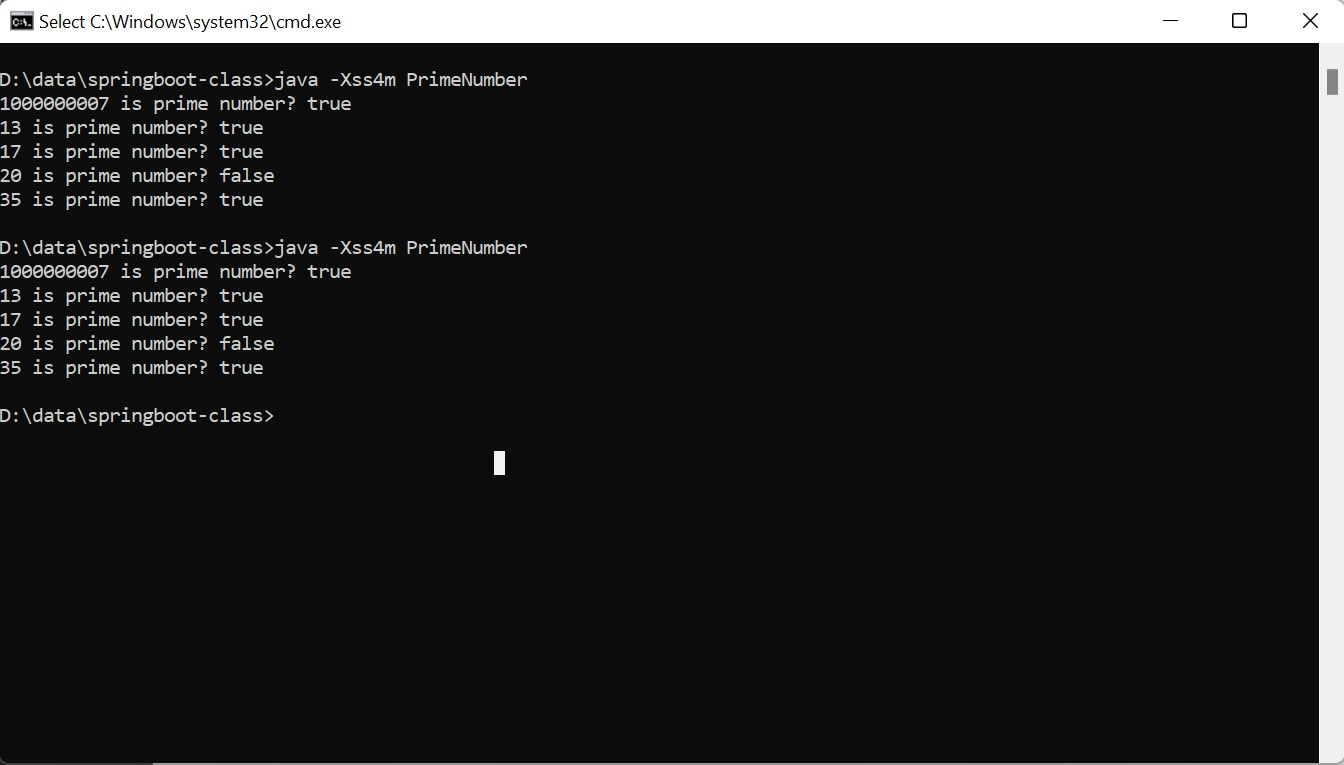
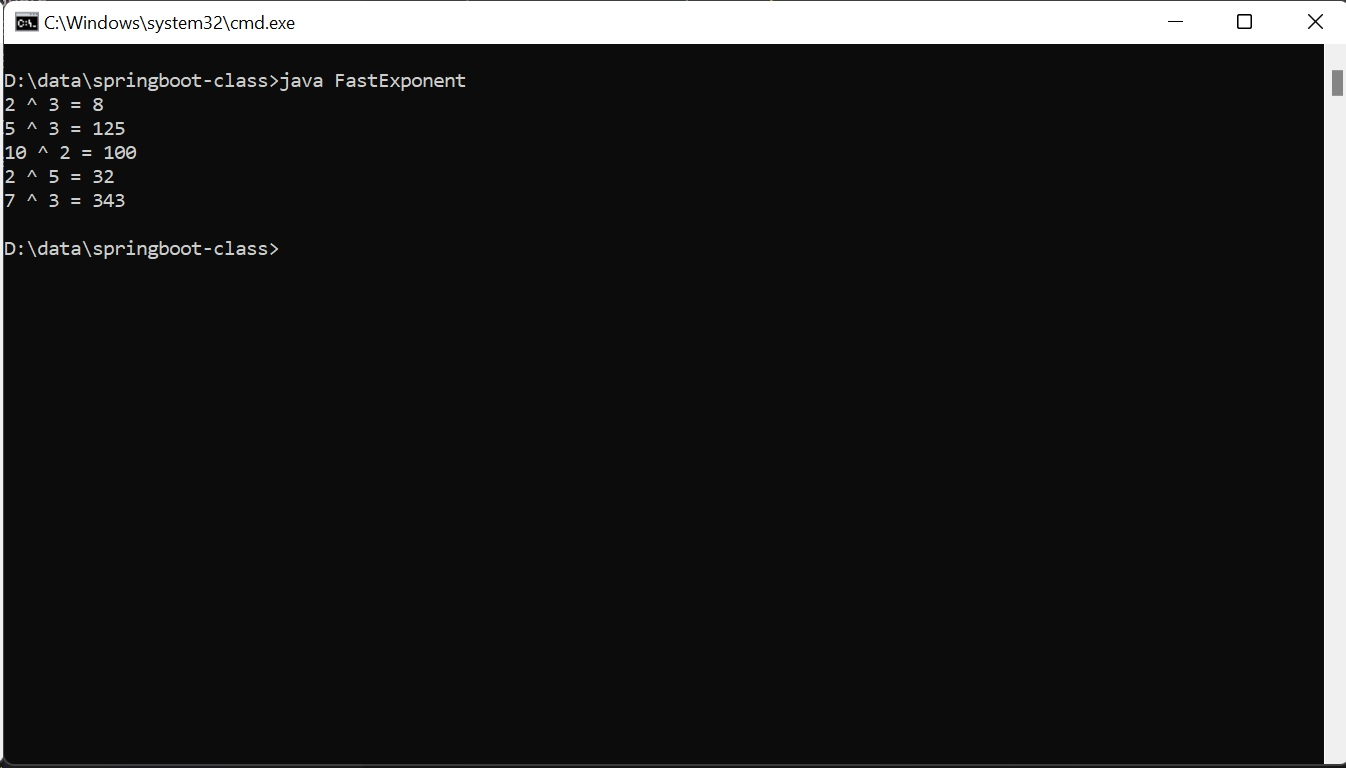
Create fast exponent function with O(n)

diff --git a/FastExponent.java b/FastExponent.java
@@ -1,0 +1,15 @@
+public class FastExponent {
+    public static int pow(int number, int power) {
+        if (power != 0) return (number * pow(number, power - 1));
+        else return 1;
+    }
+     
+    public static void main(String[] args)
+    {
+        System.out.println("2 ^ 3 = " + pow(2, 3));
+        System.out.println("5 ^ 3 = " + pow(5, 3));
+        System.out.println("10 ^ 2 = " + pow(10, 2));
+        System.out.println("2 ^ 5 = " + pow(2, 5));
+        System.out.println("7 ^ 3 = " + pow(7, 3));
+    }
+}

diff --git a/README.md b/README.md
@@ -1,5 +1,3 @@
-## Checking prime number with O(n)
-
-*Note: you have to run it with `-Xss4m` otherwise you will get `java.lang.StackOverflowError`
+## Fast exponent with O(n)
 
 ![screenshot](screenshot.jpg)
